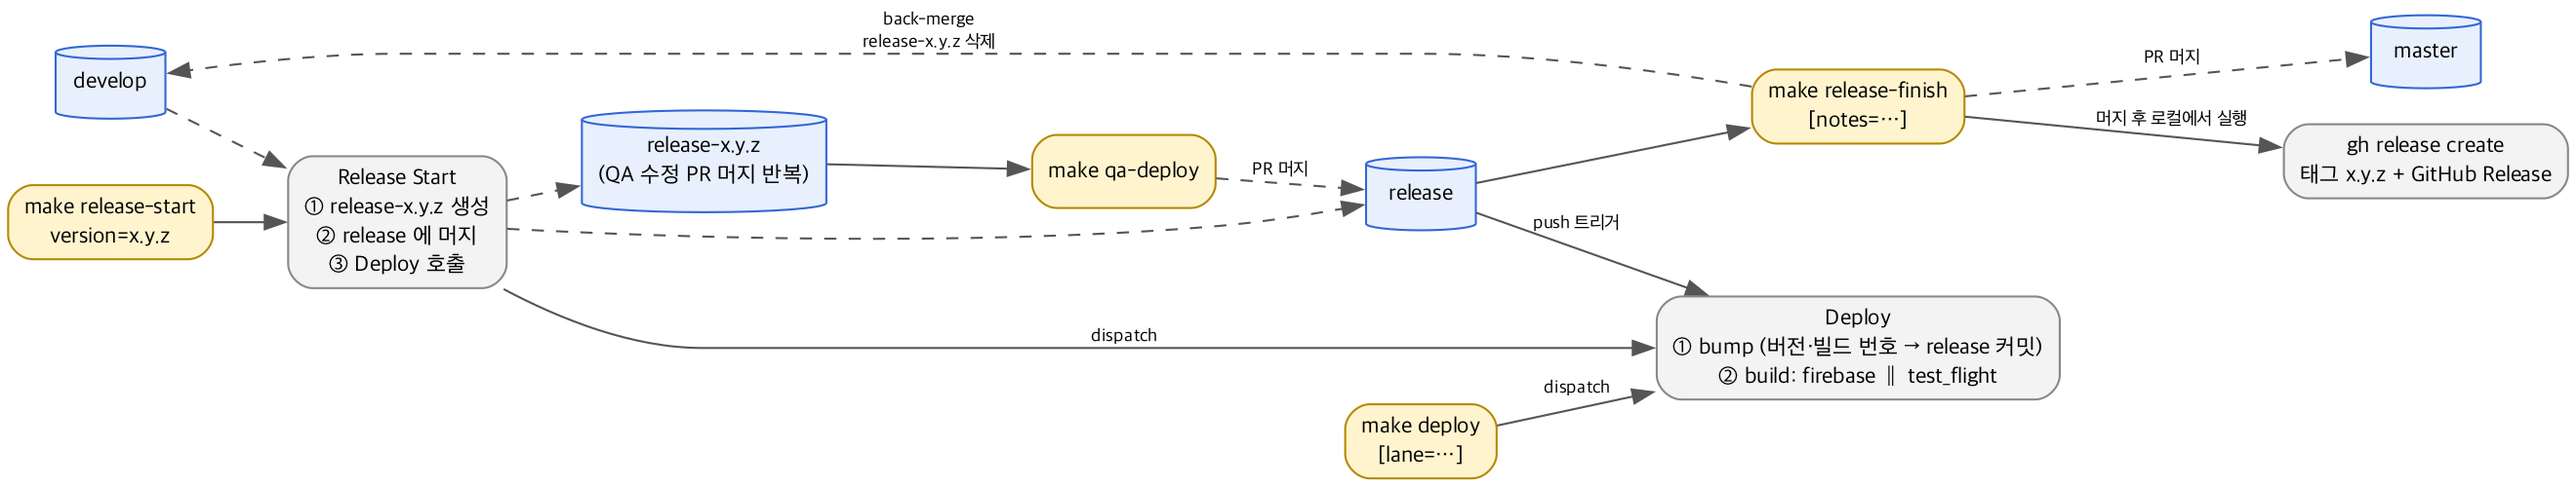
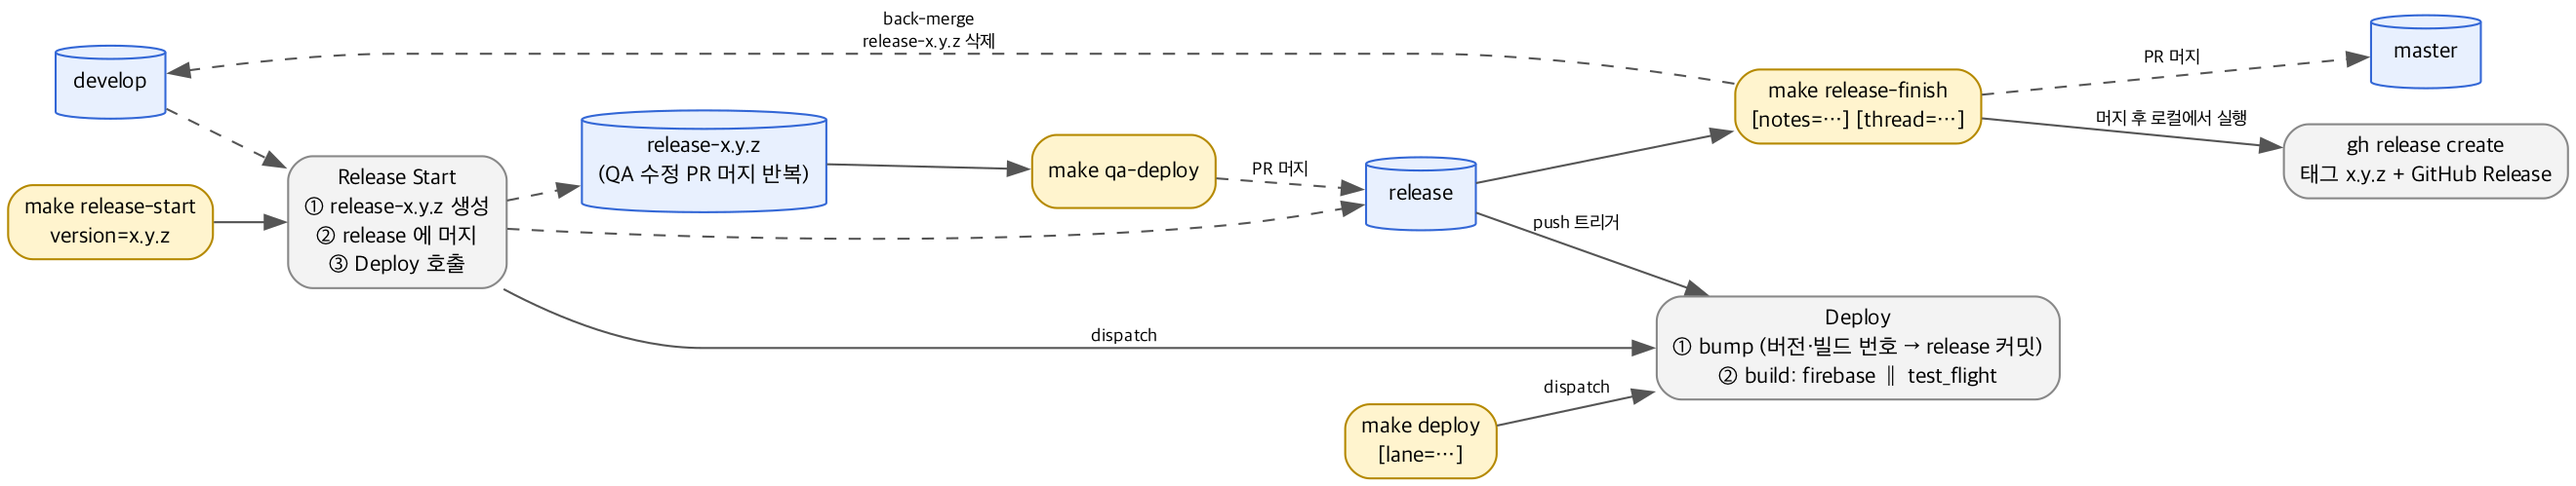
update: pr-body.sh 에 VERSION_XCCONFIG 전달, 검증 시나리오 9 추가, 순서도 thread 옵션 표기

diff --git a/README.md b/README.md
@@ -169,6 +169,7 @@ Makefile 이 여는 PR 세 종류는 사람이 쓰지 않고 스크립트가 git
 6. `make release-start version=1.0.2` → 충돌 없이 `release` 에 머지되고 Deploy 가 `1.0.2 (1)`
 7. 충돌 내성 확인: `release-1.0.2` 에서 `TestApp/Resources/Info.plist` 의 아무 키나 수정해 push → `make qa-deploy` 가 충돌 없이 머지됨 (버전이 xcconfig 로 분리됐기 때문)
 8. 실패 재현: `release-1.0.2` 에서 로컬로 `bundle exec fastlane ios bump` 후 push → PR 에 `Config/Version.xcconfig` 충돌 표시 (규칙 위반 케이스)
+9. PR 본문 확인: 6~8 과정에서 열린 `deploy: release-1.0.2 (n건)` PR 과 `release: 1.0.2 master에 반영` / `develop에 반영` PR 의 본문이 5절 "PR 제목·본문" 대로 채워졌는지. `make release-finish … thread=<url>` 을 주면 요약에 관련 스레드가 들어간다
 
 ## 8. 자주 묻는 것
 
